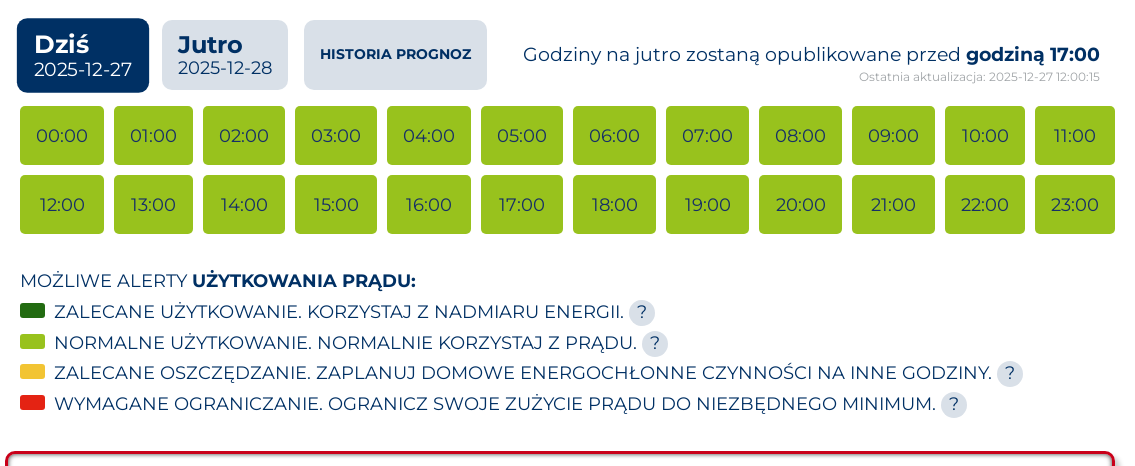
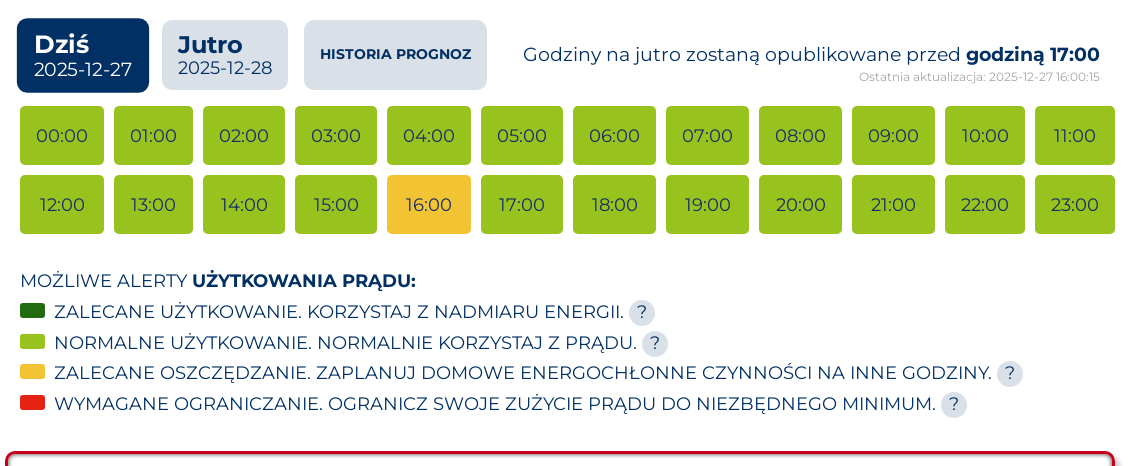
site: update 2025-12-27 16:00 UTC

Changed region(s): [[0.3392, 0.3605, 0.4317, 0.5107]]

diff --git a/site/html_01_tabele_wykresy_g14_today_tomorrow.html b/site/html_01_tabele_wykresy_g14_today_tomorrow.html
@@ -140,7 +140,7 @@
 <section class="hero">
   <div class="kicker">Dane</div>
   <h1>Taryfa — dzisiaj i jutro</h1>
-  <p class="muted">Strona wygenerowana: 2025-12-27 13:00:29</p>
+  <p class="muted">Strona wygenerowana: 2025-12-27 17:00:32</p>
   <p class="muted">Dane (dzisiaj) — ostatnia próbka: 2025-12-27 23:45:00</p>
   <p class="muted">Dane (jutro) — ostatnia próbka: brak danych</p>
 </section>
@@ -238,7 +238,7 @@
             <td class="left-2">02:15</td>
             <td class="cat-c">0,408</td>
             <td class="cat-c">c</td>
-            <td class="cat-c">0,468</td>
+            <td class="cat-c">0,518</td>
             <td class="cat-c">c</td>
           </tr>
           <tr>
@@ -246,7 +246,7 @@
             <td class="left-2">02:30</td>
             <td class="cat-c">0,407</td>
             <td class="cat-c">c</td>
-            <td class="cat-c">0,467</td>
+            <td class="cat-c">0,517</td>
             <td class="cat-c">c</td>
           </tr>
           <tr>
@@ -254,7 +254,7 @@
             <td class="left-2">02:45</td>
             <td class="cat-c">0,379</td>
             <td class="cat-c">c</td>
-            <td class="cat-c">0,439</td>
+            <td class="cat-c">0,489</td>
             <td class="cat-c">c</td>
           </tr>
           <tr>
@@ -262,7 +262,7 @@
             <td class="left-2">03:00</td>
             <td class="cat-b">0,374</td>
             <td class="cat-b">b</td>
-            <td class="cat-b">0,434</td>
+            <td class="cat-b">0,484</td>
             <td class="cat-b">b</td>
           </tr>
           <tr>
@@ -270,7 +270,7 @@
             <td class="left-2">03:15</td>
             <td class="cat-b">0,374</td>
             <td class="cat-b">b</td>
-            <td class="cat-b">0,434</td>
+            <td class="cat-b">0,484</td>
             <td class="cat-b">b</td>
           </tr>
           <tr>
@@ -278,7 +278,7 @@
             <td class="left-2">03:30</td>
             <td class="cat-b">0,371</td>
             <td class="cat-b">b</td>
-            <td class="cat-b">0,431</td>
+            <td class="cat-b">0,481</td>
             <td class="cat-b">b</td>
           </tr>
           <tr>
@@ -286,7 +286,7 @@
             <td class="left-2">03:45</td>
             <td class="cat-b">0,370</td>
             <td class="cat-b">b</td>
-            <td class="cat-b">0,430</td>
+            <td class="cat-b">0,480</td>
             <td class="cat-b">b</td>
           </tr>
           <tr>
@@ -294,7 +294,7 @@
             <td class="left-2">04:00</td>
             <td class="cat-a">0,366</td>
             <td class="cat-a">a</td>
-            <td class="cat-a">0,426</td>
+            <td class="cat-a">0,476</td>
             <td class="cat-a">a</td>
           </tr>
           <tr>
@@ -302,7 +302,7 @@
             <td class="left-2">04:15</td>
             <td class="cat-b">0,373</td>
             <td class="cat-b">b</td>
-            <td class="cat-b">0,433</td>
+            <td class="cat-b">0,483</td>
             <td class="cat-b">b</td>
           </tr>
           <tr>
@@ -310,7 +310,7 @@
             <td class="left-2">04:30</td>
             <td class="cat-b">0,373</td>
             <td class="cat-b">b</td>
-            <td class="cat-b">0,433</td>
+            <td class="cat-b">0,483</td>
             <td class="cat-b">b</td>
           </tr>
           <tr>
@@ -318,7 +318,7 @@
             <td class="left-2">04:45</td>
             <td class="cat-b">0,372</td>
             <td class="cat-b">b</td>
-            <td class="cat-b">0,432</td>
+            <td class="cat-b">0,482</td>
             <td class="cat-b">b</td>
           </tr>
           <tr>
@@ -326,7 +326,7 @@
             <td class="left-2">05:00</td>
             <td class="cat-b">0,372</td>
             <td class="cat-b">b</td>
-            <td class="cat-b">0,432</td>
+            <td class="cat-b">0,482</td>
             <td class="cat-b">b</td>
           </tr>
           <tr>
@@ -334,7 +334,7 @@
             <td class="left-2">05:15</td>
             <td class="cat-a">0,366</td>
             <td class="cat-a">a</td>
-            <td class="cat-a">0,426</td>
+            <td class="cat-a">0,476</td>
             <td class="cat-a">a</td>
           </tr>
           <tr>
@@ -342,7 +342,7 @@
             <td class="left-2">05:30</td>
             <td class="cat-a">0,369</td>
             <td class="cat-a">a</td>
-            <td class="cat-a">0,429</td>
+            <td class="cat-a">0,479</td>
             <td class="cat-a">a</td>
           </tr>
           <tr>
@@ -350,7 +350,7 @@
             <td class="left-2">05:45</td>
             <td class="cat-b">0,371</td>
             <td class="cat-b">b</td>
-            <td class="cat-b">0,431</td>
+            <td class="cat-b">0,481</td>
             <td class="cat-b">b</td>
           </tr>
           <tr>
@@ -358,7 +358,7 @@
             <td class="left-2">06:00</td>
             <td class="cat-c">0,380</td>
             <td class="cat-c">c</td>
-            <td class="cat-c">0,440</td>
+            <td class="cat-c">0,490</td>
             <td class="cat-c">c</td>
           </tr>
           <tr>
@@ -366,7 +366,7 @@
             <td class="left-2">06:15</td>
             <td class="cat-b">0,374</td>
             <td class="cat-b">b</td>
-            <td class="cat-b">0,434</td>
+            <td class="cat-b">0,484</td>
             <td class="cat-b">b</td>
           </tr>
           <tr>
@@ -374,7 +374,7 @@
             <td class="left-2">06:30</td>
             <td class="cat-c">0,385</td>
             <td class="cat-c">c</td>
-            <td class="cat-c">0,445</td>
+            <td class="cat-c">0,495</td>
             <td class="cat-c">c</td>
           </tr>
           <tr>
@@ -382,7 +382,7 @@
             <td class="left-2">06:45</td>
             <td class="cat-c">0,395</td>
             <td class="cat-c">c</td>
-            <td class="cat-c">0,455</td>
+            <td class="cat-c">0,505</td>
             <td class="cat-c">c</td>
           </tr>
           <tr>
@@ -390,7 +390,7 @@
             <td class="left-2">07:00</td>
             <td class="cat-c">0,408</td>
             <td class="cat-c">c</td>
-            <td class="cat-c">0,468</td>
+            <td class="cat-c">0,518</td>
             <td class="cat-c">c</td>
           </tr>
           <tr>
@@ -686,7 +686,7 @@
             <td class="left-2">16:15</td>
             <td class="cat-c">0,432</td>
             <td class="cat-c">c</td>
-            <td class="cat-c">0,542</td>
+            <td class="cat-c">0,912</td>
             <td class="cat-c">c</td>
           </tr>
           <tr>
@@ -694,7 +694,7 @@
             <td class="left-2">16:30</td>
             <td class="cat-d">0,441</td>
             <td class="cat-d">d</td>
-            <td class="cat-d">0,551</td>
+            <td class="cat-d">0,921</td>
             <td class="cat-d">d</td>
           </tr>
           <tr>
@@ -702,7 +702,7 @@
             <td class="left-2">16:45</td>
             <td class="cat-d">0,452</td>
             <td class="cat-d">d</td>
-            <td class="cat-d">0,562</td>
+            <td class="cat-d">0,932</td>
             <td class="cat-d">d</td>
           </tr>
           <tr>
@@ -710,7 +710,7 @@
             <td class="left-2">17:00</td>
             <td class="cat-d">0,453</td>
             <td class="cat-d">d</td>
-            <td class="cat-d">0,563</td>
+            <td class="cat-d">0,933</td>
             <td class="cat-d">d</td>
           </tr>
           <tr>

diff --git a/site/html_02_raport_ze_stanu_teraz.html b/site/html_02_raport_ze_stanu_teraz.html
@@ -18,7 +18,7 @@
   </div>
 
   <section class="hero">
-    <div class="kicker">Ostatni odczyt: 27.12.2025 16:45</div>
+    <div class="kicker">Ostatni odczyt: 27.12.2025 17:00</div>
     <h1>Raport ze stanu teraz</h1>
     <p>
       Taryfy Tauron:
@@ -42,7 +42,7 @@
       <tbody>
         <tr>
           <th style="width:40%;">Czas odczytu</th>
-          <td>27.12.2025 16:45</td>
+          <td>27.12.2025 17:00</td>
         </tr>
         <tr>
           <th>Położenie</th>
@@ -70,7 +70,7 @@
         </tr>
         <tr>
           <th>Energia pobrana z sieci dzisiaj [kWh]</th>
-          <td>23.90</td>
+          <td>24.00</td>
         </tr>
         <tr>
           <th>Zużycie z sieci dzisiaj [kWh]</th>
@@ -106,7 +106,7 @@
         </tr>
         <tr>
           <th>Moc z / do sieci [W]</th>
-          <td>389</td>
+          <td>429</td>
         </tr>
         <tr>
           <th>Moc z / do baterii [W]</th>
@@ -150,7 +150,7 @@
         </tr>
         <tr>
           <th>Napięcie [V]</th>
-          <td>235.19</td>
+          <td>234.01</td>
         </tr>
         <tr>
           <th>Prąd [A]</th>

diff --git a/site/html_03_g13_g14_porownanie.html b/site/html_03_g13_g14_porownanie.html
@@ -18,7 +18,7 @@
   </div>
 
   <section class="hero">
-    <div class="kicker">Ceny sprzedaży i zakupu energii oraz tryb SolaX (ostatni odczyt: 2025-12-27 16:45:00, strona wygenerowana 2025-12-27 16:45:28)</div>
+    <div class="kicker">Ceny sprzedaży i zakupu energii oraz tryb SolaX (ostatni odczyt: 2025-12-27 17:00:01, strona wygenerowana 2025-12-27 17:00:48)</div>
     <h1>Ceny energii i tryb SolaX</h1>
     <p>
       Taryfy Tauron:
@@ -44,7 +44,7 @@
       <tbody>
         <tr>
           <td>Cena sprzedaży energii (SELL)</td>
-          <td>0,453</td>
+          <td>0,440</td>
         </tr>
         <tr>
           <td>Cena zakupu energii w taryfie G13</td>
@@ -52,7 +52,7 @@
         </tr>
         <tr>
           <td>Cena zakupu energii w taryfie G14</td>
-          <td>0,563</td>
+          <td>0,550</td>
         </tr>
       </tbody>
     </table>
